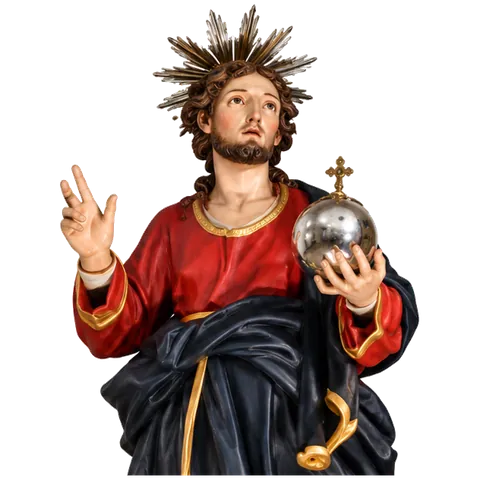
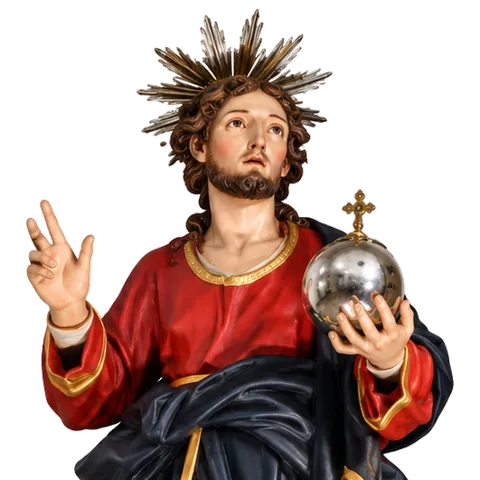
Memory: foto appoggiate sul fondo della carta (niente striscia sotto né tagli sopra), Salvatore più grande (D92)

diff --git a/app/src/styles/components.css b/app/src/styles/components.css
@@ -792,12 +792,20 @@ img.memory-card__image {
   object-fit: cover;
 }
 
-/* Foto con sfondo trasparente: riempie il riquadro colorato senza tagliare il soggetto */
+/*
+ * Foto con sfondo trasparente sul riquadro colorato. Le foto sono tagliate dritte in basso (mezzo busto, base tolta):
+ * appoggiate sul fondo, contro la didascalia, così sotto non resta una striscia di colore (D92).
+ */
+.memory-card__image--photo {
+  overflow: hidden;
+}
+
 .memory-card__image--photo img {
   display: block;
   width: 100%;
   height: 100%;
   object-fit: contain;
+  object-position: center bottom;
 }
 
 .memory-card__caption {

diff --git a/docs/05-DECISIONI.md b/docs/05-DECISIONI.md
@@ -95,6 +95,7 @@ Questo file **ha la precedenza** sugli altri documenti. Aggiornarlo a ogni nuova
 | D88 | **Acchiappa: ancora più porcini** (probabilità 0,78 → 0,72, prima 0,70 → 0,64) e **niente lag alla prima partita**: il lag restava solo al primo tentativo (codice del gioco non ancora ottimizzato dal browser). Sulla schermata delle regole il gioco fa una **partita di prova invisibile** di qualche secondo (canvas fuori schermo, solo porcini toccati, niente vibrazioni): sul computer la stessa prova passa da 10 ms la prima volta a 2 ms la seconda. | Segnalato dall'utente provando sul telefono. |
 | D89 | **Prime foto vere nel Memory** (Tappa 10, contenuti): Comune, Monumento e Salvatore al posto di 3 disegni segnaposto (gli altri 5 restano finché non arrivano le foto). Comune con un po' di zoom (senza lampioni e gran parte della piazza). Colori di sfondo delle carte tutti diversi. Lo script `npm run memory-images` riconosce anche i PNG con la **scacchiera "finta"** disegnata nell'immagine (la toglie solo dal cielo, partendo dal bordo in alto). Le foto sono salvate sul telefono con il resto dell'app (si gioca anche offline) e vengono caricate prima della partita. | Fasi rimaste della Tappa 10: contenuti → stampa → prova di carico → checklist → prova generale. |
 | D90 | **Campo PIN a 5 caselle** (supera i trattini "segnaposto" di D86): ogni cifra scritta prende il posto del suo trattino e **si vede in chiaro** (D91, su richiesta: niente pallini), le cifre mancanti restano trattini e il **cursore lampeggia sul trattino della prossima cifra**; si scrive e si cancella solo in fondo. Sotto c'è il vero campo, invisibile: tastiera numerica, incolla e riempimento automatico funzionano come prima. Entrano solo cifre (anche se si incolla testo con lettere). Registrazione, accesso e reset dello staff. | Proposta dell'utente. |
+| D92 | **Foto del Memory appoggiate sul fondo della carta**: sono tagliate dritte in basso (mezzo busto, base tolta), quindi toccano la didascalia senza striscia di colore sotto e senza tagli sopra. Lo script le mette nel quadrato centrate in larghezza e appoggiate sul fondo. Salvatore più grande: ritaglio un po' più corto in basso (meno veste), così riempie la carta in larghezza. | Nessun ingrandimento "a zoom": tagliava la parte alta (aureola, punta del Monumento). |
 | D35 | Il repository e il sito appartengono all'**organizzazione GitHub `OratorioTorchiati`** (gratuita), così l'indirizzo non mostra l'account personale: **https://oratoriotorchiati.github.io/sagra-porcino/**. | La radice `oratoriotorchiati.github.io` resta libera per futuri progetti dell'oratorio. |
 
 ## Questioni aperte
@@ -153,3 +154,4 @@ Aggiungere una riga a fine di ogni tappa.
 | 8 (ritocchi) | Completata | 2026-09-29 | Acchiappa: più porcini, partita di prova invisibile contro il lag della prima partita (D88). |
 | 10 (contenuti) | In corso | 2026-09-29 | Memory: prime 3 foto vere (Comune, Monumento, Salvatore), foto disponibili offline (D89). Mancano: menù, domande del quiz, altre 5 foto, titolare privacy, date delle serate. |
 | 8 (ritocchi) | Completata | 2026-09-30 | Campo PIN a 5 caselle con cursore sul trattino della prossima cifra (D90). |
+| 10 (contenuti) | In corso | 2026-09-30 | Memory: foto appoggiate sul fondo della carta, Salvatore più grande (D92). |
